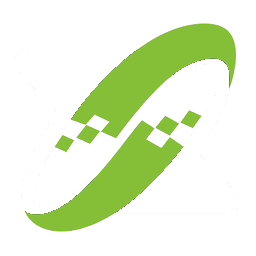
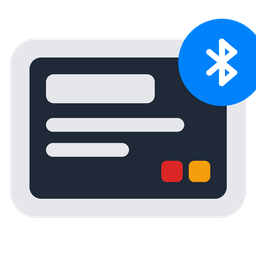
Replace Zhsunyco brand images with vendor-neutral BLE ESL artwork
The brand/ folder still carried the Zhsunyco company logo. Replace it
with an original icon (e-paper tag with BWRY colour chips and a
Bluetooth badge) and a "BLE ESL" wordmark, in light and dark variants
at 1x and 2x, keeping the previous file names and dimensions.

Add docs/brand/generate.py so the images can be regenerated from the
bundled fonts.

diff --git a/docs/brand/generate.py b/docs/brand/generate.py
@@ -1,0 +1,124 @@
+"""Generate the BLE ESL brand images (icon / logo, light + dark).
+
+Usage: python docs/brand/generate.py custom_components/ble_esl/brand
+"""
+from PIL import Image, ImageDraw, ImageFont
+import sys
+import os
+
+OUT = sys.argv[1]
+FONT_DIR = os.path.join(os.path.dirname(os.path.abspath(__file__)), "..", "..", "custom_components", "ble_esl", "fonts")
+FONT_BOLD = os.path.join(FONT_DIR, "GmarketSansTTFBold.ttf")
+FONT_MED = os.path.join(FONT_DIR, "GmarketSansTTFMedium.ttf")
+SS = 4  # supersample
+
+LIGHT = dict(body=(31, 41, 55), screen=(243, 244, 246), ink=(31, 41, 55),
+             text=(17, 24, 39), sub=(107, 114, 128))
+DARK = dict(body=(229, 231, 235), screen=(31, 41, 55), ink=(229, 231, 235),
+            text=(243, 244, 246), sub=(156, 163, 175))
+RED = (220, 38, 38)
+YEL = (245, 158, 11)
+BT = (0, 130, 252)
+WHITE = (255, 255, 255)
+
+
+def draw_tag(d, x, y, s, c):
+    """Draw an ESL tag icon inside an s×s box at (x, y). Coordinates already supersampled."""
+    # tag body: landscape rounded rect, centered
+    bw, bh = s * 0.92, s * 0.70
+    bx, by = x + (s - bw) / 2, y + (s - bh) / 2
+    r = s * 0.10
+    d.rounded_rectangle([bx, by, bx + bw, by + bh], radius=r, fill=c["body"])
+    # screen inset
+    m = s * 0.075
+    sx0, sy0, sx1, sy1 = bx + m, by + m, bx + bw - m, by + bh - m
+    d.rounded_rectangle([sx0, sy0, sx1, sy1], radius=r * 0.45, fill=c["screen"])
+    # content: a bold "price" bar and two thin lines, plus BWRY color chips
+    pad = s * 0.065
+    lh = s * 0.075
+    # thick bar
+    d.rounded_rectangle([sx0 + pad, sy0 + pad, sx0 + pad + (sx1 - sx0) * 0.55, sy0 + pad + lh * 1.5],
+                        radius=lh * 0.4, fill=c["ink"])
+    # thin lines
+    ly = sy0 + pad + lh * 1.5 + pad * 0.9
+    d.rounded_rectangle([sx0 + pad, ly, sx0 + pad + (sx1 - sx0) * 0.70, ly + lh * 0.7],
+                        radius=lh * 0.35, fill=c["ink"])
+    ly2 = ly + lh * 0.7 + pad * 0.7
+    d.rounded_rectangle([sx0 + pad, ly2, sx0 + pad + (sx1 - sx0) * 0.42, ly2 + lh * 0.7],
+                        radius=lh * 0.35, fill=c["ink"])
+    # color chips (red / yellow) bottom-right of screen
+    chip = lh * 1.1
+    cy = sy1 - pad - chip
+    d.rounded_rectangle([sx1 - pad - chip * 2.3, cy, sx1 - pad - chip * 1.3, cy + chip], radius=chip * 0.25, fill=RED)
+    d.rounded_rectangle([sx1 - pad - chip, cy, sx1 - pad, cy + chip], radius=chip * 0.25, fill=YEL)
+    # bluetooth badge, top-right, overlapping corner
+    br = s * 0.17
+    bcx, bcy = bx + bw - br * 0.55, by + br * 0.55
+    d.ellipse([bcx - br, bcy - br, bcx + br, bcy + br], fill=BT)
+    draw_bt_rune(d, bcx, bcy, br * 0.95, WHITE, max(2, int(s * 0.024)))
+
+
+def draw_bt_rune(d, cx, cy, h, color, w):
+    """Bluetooth rune centered at (cx, cy) with total height h."""
+    hh = h / 2
+    hw = h * 0.30
+    top, bot = (cx, cy - hh), (cx, cy + hh)
+    ur, lr = (cx + hw, cy - hh / 2), (cx + hw, cy + hh / 2)
+    ul, ll = (cx - hw, cy - hh / 2), (cx - hw, cy + hh / 2)
+    d.line([top, bot], fill=color, width=w)
+    d.line([top, ur, ll], fill=color, width=w, joint="curve")
+    d.line([bot, lr, ul], fill=color, width=w, joint="curve")
+    for p in (top, bot, ur, lr, ul, ll):
+        d.ellipse([p[0] - w / 2, p[1] - w / 2, p[0] + w / 2, p[1] + w / 2], fill=color)
+
+
+def icon(size, c, name):
+    S = size * SS
+    im = Image.new("RGBA", (S, S), (0, 0, 0, 0))
+    d = ImageDraw.Draw(im)
+    draw_tag(d, 0, 0, S, c)
+    im = im.resize((size, size), Image.LANCZOS)
+    im.save(os.path.join(OUT, name))
+
+
+def fit_font(d, path, text, max_w, start):
+    size = start
+    while size > 8:
+        f = ImageFont.truetype(path, size)
+        bb = d.textbbox((0, 0), text, font=f)
+        if bb[2] - bb[0] <= max_w:
+            return f, bb
+        size -= 2
+    return f, bb
+
+
+def logo(w, h, c, name):
+    W, H = w * SS, h * SS
+    im = Image.new("RGBA", (W, H), (0, 0, 0, 0))
+    d = ImageDraw.Draw(im)
+    s = H  # icon box = full height
+    draw_tag(d, 0, 0, s, c)
+    tx = s * 1.12
+    max_w = W - tx - H * 0.05
+    big, sub = "BLE ESL", "Electronic Shelf Label for Home Assistant"
+    f_big, bb = fit_font(d, FONT_BOLD, big, max_w, int(H * 0.50))
+    f_small, sb = fit_font(d, FONT_MED, sub, max_w, int(H * 0.15))
+    bh, sh = bb[3] - bb[1], sb[3] - sb[1]
+    gap = H * 0.08
+    total = bh + gap + sh
+    y0 = (H - total) / 2
+    d.text((tx - bb[0], y0 - bb[1]), big, font=f_big, fill=c["text"])
+    d.text((tx - sb[0], y0 + bh + gap - sb[1]), sub, font=f_small, fill=c["sub"])
+    im = im.resize((w, h), Image.LANCZOS)
+    im.save(os.path.join(OUT, name))
+
+
+icon(256, LIGHT, "icon.png")
+icon(512, LIGHT, "icon@2x.png")
+icon(256, DARK, "dark_icon.png")
+icon(512, DARK, "dark_icon@2x.png")
+logo(712, 180, LIGHT, "logo.png")
+logo(1424, 360, LIGHT, "logo@2x.png")
+logo(712, 180, DARK, "dark_logo.png")
+logo(1424, 360, DARK, "dark_logo@2x.png")
+print("ok")
